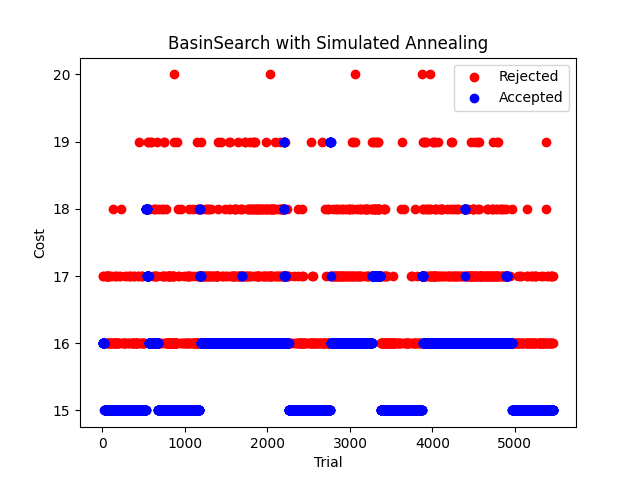
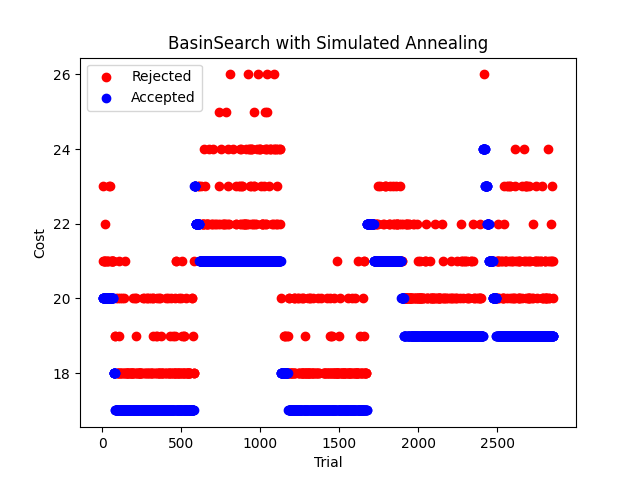
torch simple search

diff --git a/simple_search.py b/simple_search.py
@@ -4,6 +4,7 @@ from sparse_poly import SparsePoly, LETTERS
 import multivar_horner
 
 import numpy as np
+import torch
 from dataclasses import dataclass, field
 import heapq
 import time
@@ -16,7 +17,7 @@ DECOMP_TRIALS = 10
 
 class AnnealNode:
     def __init__(self, common, on_child, off_child, size, added_const=False):
-        self.common = common.copy() if not common is None else None
+        self.common = common.clone() if not common is None else None
         self.on_child = on_child
         self.off_child = off_child
         self.size = size
@@ -41,9 +42,9 @@ class AnnealNode:
     def __str__(self) -> str:
         my_str = ""
         if self.on_child is not None:
-            for i in range(self.common.size):
+            for i in range(self.common.numel()):
                 if self.common[i] > 0:
-                    my_str += "x_"+str(i)+'^'+str(round(self.common[i]))
+                    my_str += "x_"+str(i)+'^'+str(round(self.common[i].item()))
             my_str +=  "(" + str(self.on_child) + ")"
         if self.off_child is not None:
             if len(my_str) > 0:
@@ -57,13 +58,14 @@ class AnnealNode:
 
 
 def default_heuristic(m, commons):
-    diff = m - np.expand_dims(np.squeeze(commons).T, 0)
-    good_diff = np.min(diff, axis=1) >= 0
-    good_diff = np.expand_dims(good_diff, 1)
-    diff_zeros = np.full_like(m, good_diff)
+    diff = m - commons
+    good_diff = torch.min(diff, dim=1).values >= 0
+    good_diff = torch.unsqueeze(good_diff, dim=1)
+    good_diff.expand(-1, m.shape[1], -1)
 
-    fixed = np.where(diff_zeros > 0, np.expand_dims(np.squeeze(commons).T, 0)/np.maximum(1, np.sqrt(m)), 0)
-    summ = np.sum(fixed, axis=(0, 1))
+    maxes = torch.where(m > 1, torch.sqrt(m), 1)
+    fixed = torch.where(good_diff > 0, commons/maxes, 0)
+    summ = torch.sum(fixed, dim=(0, 1))
     return summ
 
 
@@ -94,54 +96,56 @@ class SimpleSearch:
         if base is not None:
             for node in base.get_nodes():
                 if not node.common is None:
-                    ne = node.common.copy()
+                    ne = node.common.clone()
                     self.commons.append(ne)
-                    already_used.add(tuple(ne))
+                    already_used.add(tuple(torch.round_(ne)))
 
-        maxs = np.max(self._get_problem(), axis=0)
-        constraints = (maxs + 1)//2
+        maxs = torch.max(self._get_problem(), dim=0).values
+        constraints = torch.div(maxs + 1, 2, rounding_mode="floor")
 
         for i in range(self.n):
             if maxs[i] > 0:
-                ne = np.zeros(self.n, dtype=np.int32)
+                ne = torch.zeros(self.n)
                 ne[i] = 1
-                if tuple(ne) not in already_used:
+                if tuple(torch.round_(ne)) not in already_used:
                     already_used.add(tuple(ne))
-                    self.commons.append(ne)
+                    self.commons.append(torch.round_(ne))
         if cache:
+            fixed_constraints = torch.tensor([round(constraints[i].item()) for i in range(constraints.nelement())], dtype=torch.int32)
             for i in range(self.n):
                 if constraints[i] > 2:
-                    for n in range(2, 1 + constraints[i]):
-                        ne = np.zeros(self.n, dtype=np.int32)
+                    for n in range(2, 1 + fixed_constraints[i]):
+                        ne = torch.zeros(self.n)
                         ne[i] = n
-                        if tuple(ne) not in already_used:
+                        if tuple(torch.round_(ne)) not in already_used:
                             already_used.add(tuple(ne))
-                            self.commons.append(ne)
+                            self.commons.append(torch.round_(ne))
         init_len = len(self.commons)
         tries = 0
         while len(self.commons) < init_len + n_rands and tries < self.n*n_rands:
             tries += 1
-            ne = random.choice(self.commons).copy()
-            ne[np.random.randint(0, self.n)] += 1
-            if tuple(ne) not in already_used and np.all(ne <= constraints):
-                already_used.add(tuple(ne))
+            ne = random.choice(self.commons).clone()
+            ne[torch.randint(self.n, size=(1,))] += 1
+            if tuple(torch.round_(ne)) not in already_used and torch.all(ne <= constraints):
+                already_used.add(tuple(torch.round_(ne)))
                 self.commons.append(ne)
         
-        self.commons = np.stack(self.commons)
-        self.commons = np.expand_dims(self.commons, 0)
+        self.commons = torch.stack(self.commons)
+        self.commons = torch.transpose(self.commons, 0, 1)
+
 
     def _get_problem(self):
         problem = []
         for k in self.poly.dict.keys():
-            a = np.array(k, dtype=np.int32)
+            a = torch.tensor(k)
             problem.append(a)
 
-        return np.stack(problem)
+        return torch.stack(problem)
 
 
-    def _clean(self, m: np.ndarray, common: np.ndarray=None) -> list:
+    def _clean(self, m: torch.tensor, common: torch.Tensor=None) -> list:
 
-        if m.size == 0:
+        if m.numel() == 0:
             raise RuntimeError("Tried to clean empty array")
 
         # reduce with common denominator
@@ -149,11 +153,11 @@ class SimpleSearch:
             self.cost += 1 # this represents a multiplication
             m[:, ] -= common
 
-        if np.any(m < 0):
+        if torch.any(m < 0):
             raise RuntimeError("Negative exponent in clean.")
 
-        cleaned = m[np.sum(m, axis=1) > 0]
-        if cleaned.size < m.size:
+        cleaned = m[torch.sum(m, dim=1) > 0]
+        if cleaned.numel() < m.numel():
             return cleaned, True
         return cleaned, False
 
@@ -166,8 +170,9 @@ class SimpleSearch:
         used_commons = set()
 
         # stack of polynomials to be decomposed
+        g, intercept = self._clean(problem)
         try:
-            g, intercept = self._clean(problem)
+            
             groups = [g]
         except:
             raise RuntimeError("Cannot clean problem. Problem is likely empty.")
@@ -181,7 +186,7 @@ class SimpleSearch:
 
             # pop smallest remaining group
             curr_group = groups.pop()
-            if curr_group.size == 0:
+            if curr_group.numel() == 0:
                 raise RuntimeError("Group is empty? This shouldn't happen.")
             curr_follow = follows.pop()
             curr_path = paths.pop()
@@ -197,40 +202,39 @@ class SimpleSearch:
                     common = random.choice(range(self.commons.shape[1]))
 
                 else:
-                    expanded = np.full(list(curr_group.shape)+[self.commons.shape[1]], np.expand_dims(curr_group, 2))
+                    expanded = torch.tile(torch.unsqueeze(curr_group, 2), (1, 1, self.commons.shape[1]))
 
                     scores = self.heuristic(expanded, self.commons)
 
-                    if np.sum(scores) == 0:
+                    if torch.sum(scores) == 0:
                         raise RuntimeError("Group has no valid denominator choices!")
                 
                     if gamma is None:
-                        common = np.argmax(scores)
+                        common = torch.argmax(scores)
                     else:
-                        weights = np.where(scores > 0, scores**gamma, 0)
-                        weights = weights.astype(np.float64) / np.sum(weights)
-                        common = np.random.choice(range(scores.size), p=weights)
+                        weights = torch.where(scores > 0, scores**gamma, 0)
+                        weights = weights / torch.sum(weights)
+                        common = np.random.choice(range(scores.numel()), p=np.array(weights))
 
-                common = self.commons[0, common]
+                common = self.commons[:, common]
 
-            used_commons.add(tuple(common))
+            used_commons.add(tuple(torch.round_(common)))
             curr_path.common = common
             curr_path.size = curr_group.shape[0]
 
-            diff = curr_group - np.expand_dims(np.squeeze(common), 0)
-            good_diff = np.min(diff, axis=1) >= 0
+            good_diff = torch.min(curr_group - common, dim=1).values >= 0
 
             on_set = curr_group[good_diff, :]
 
-            if on_set.size == 0:
+            if on_set.numel() == 0:
                 groups.append(curr_group)
                 follows.append(curr_follow)
                 paths.append(curr_path)
                 continue
 
-            off_set = curr_group[np.logical_not(good_diff), :]
+            off_set = curr_group[torch.logical_not(good_diff), :]
 
-            if off_set.size > 0:
+            if off_set.numel() > 0:
                 groups.append(off_set)
                 follows.append(None if curr_follow is None else curr_follow.off_child)
                 
@@ -238,11 +242,11 @@ class SimpleSearch:
                 curr_path.off_child = off_path
                 paths.append(off_path)
 
-            if on_set.size > 0:
+            if on_set.numel() > 0:
                 cleaned, intercept = self._clean(on_set, common)
                 on_path = AnnealNode(None, None, None, None, added_const=intercept)
                 curr_path.on_child = on_path
-                if cleaned.size > 0:
+                if cleaned.numel() > 0:
                     groups.append(cleaned)
                     follows.append(None if curr_follow is None else curr_follow.on_child)
                     paths.append(on_path)
@@ -252,13 +256,13 @@ class SimpleSearch:
 
             for trial in range(DECOMP_TRIALS):
                 common_costs.append(0)
-                a = np.array(k, dtype=np.int32)
-                while np.sum(a) > 1:
-                    a[np.random.choice(range(self.n), p=np.sign(a)/np.sum(np.sign(a)))] -= 1
-                    if np.min(a) < 0:
+                a = torch.tensor(k)
+                while torch.sum(a) > 1:
+                    a[np.random.choice(range(self.n), p=np.array(torch.sign(a)/torch.sum(torch.sign(a))))] -= 1
+                    if torch.min(a) < 0:
                         raise RuntimeError("invalid common factor cost calculation.")
                     common_costs[-1] += 1
-                    if tuple(a) in used_commons:
+                    if tuple(torch.round_(a)) in used_commons:
                         break
                 
                 if common_costs[-1] <= 1:
@@ -350,7 +354,7 @@ class SimpleSearch:
 
             accepted = True
             comparer = prev_cost
-            p_accept = 1 if new_cost <= prev_cost else np.exp(max(-20, (comparer - new_cost)/(temp)))
+            p_accept = 1 if new_cost <= prev_cost else np.exp(max(-20, (comparer - new_cost)/temp))
             if new_cost <= prev_cost or random.random() < p_accept:
                 prev_cost = new_cost
                 curr_path = new_path
@@ -480,7 +484,7 @@ def main():
 
     target = SparsePoly(N)
     for c in range(coefs):
-        k = np.round_(np.random.exponential(scale=scale, size=N)).astype(np.int32)
+        k = np.round_(np.random.exponential(scale=scale, size=N))
         target[k] = 1
 
     # the most basic representation just multiplies and adds every monomial one by one
